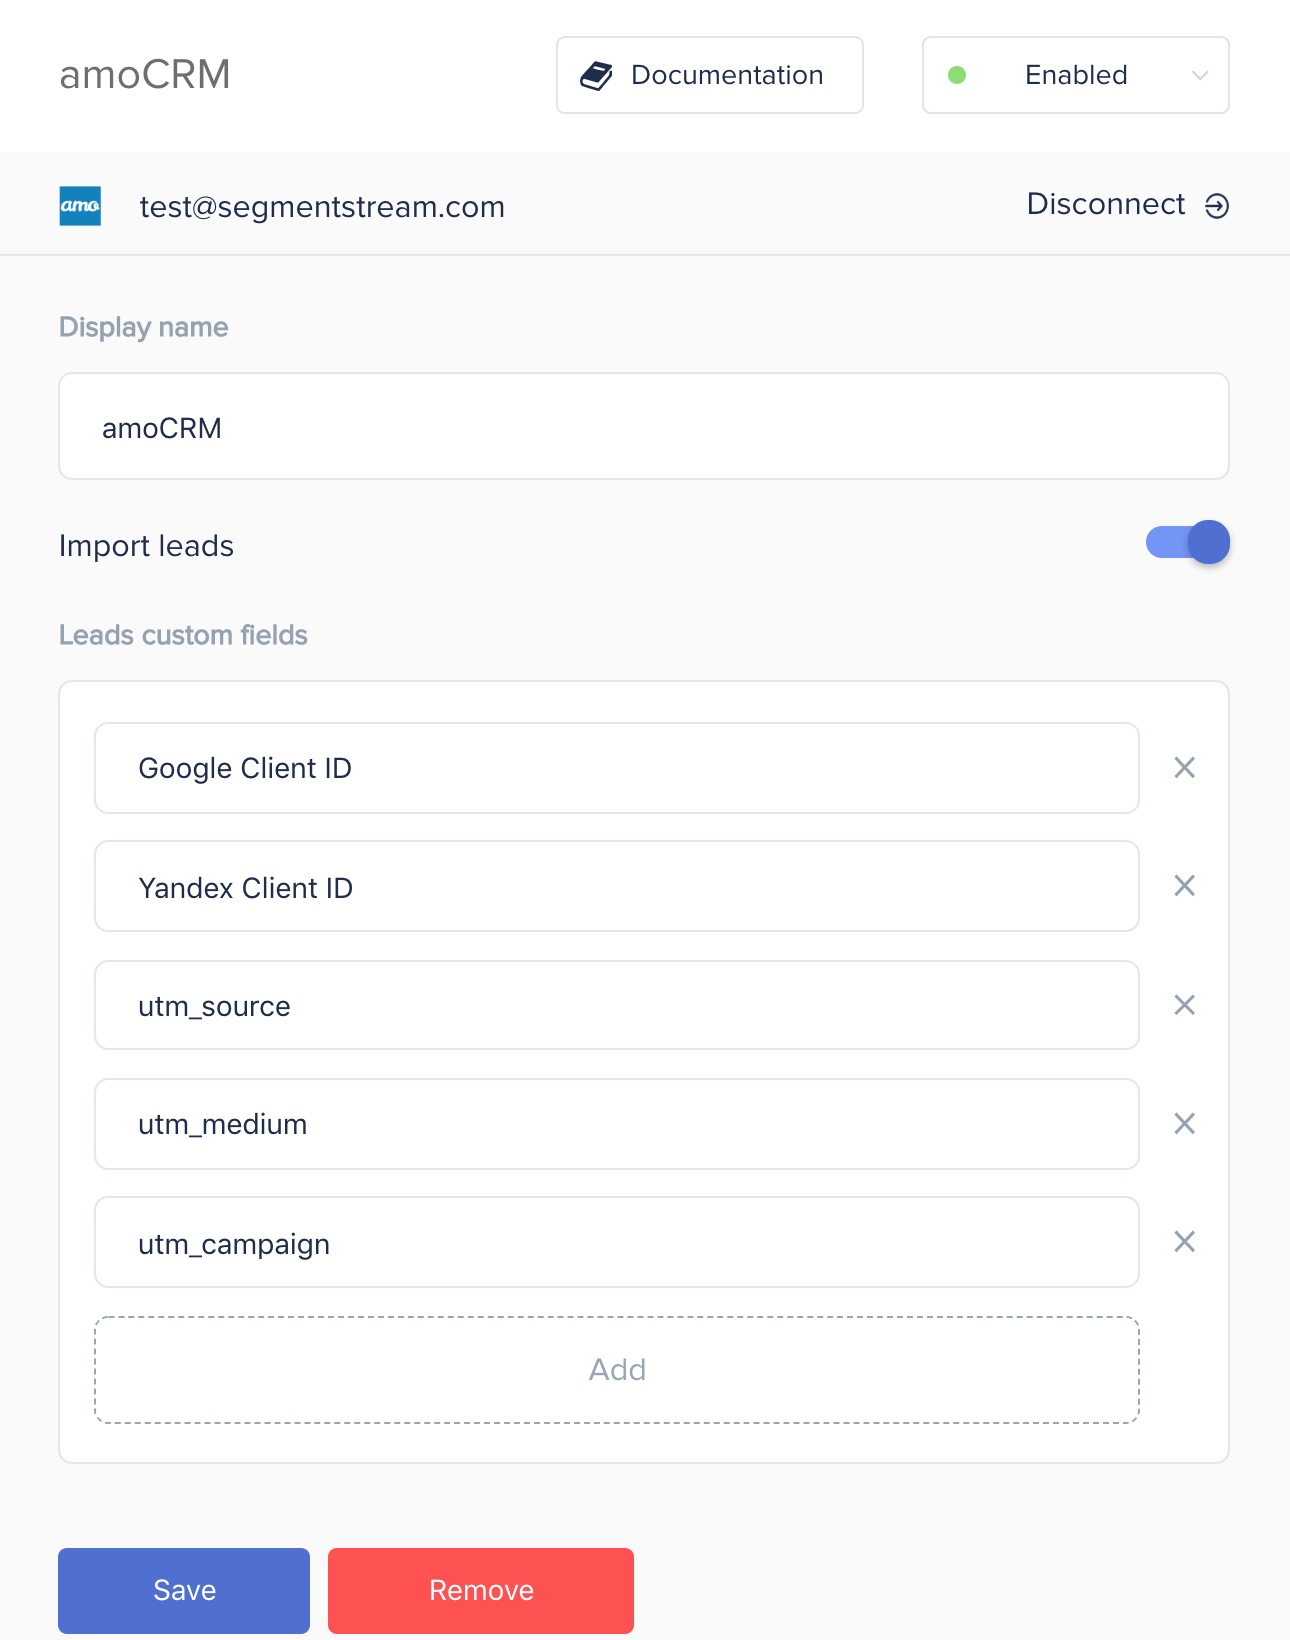
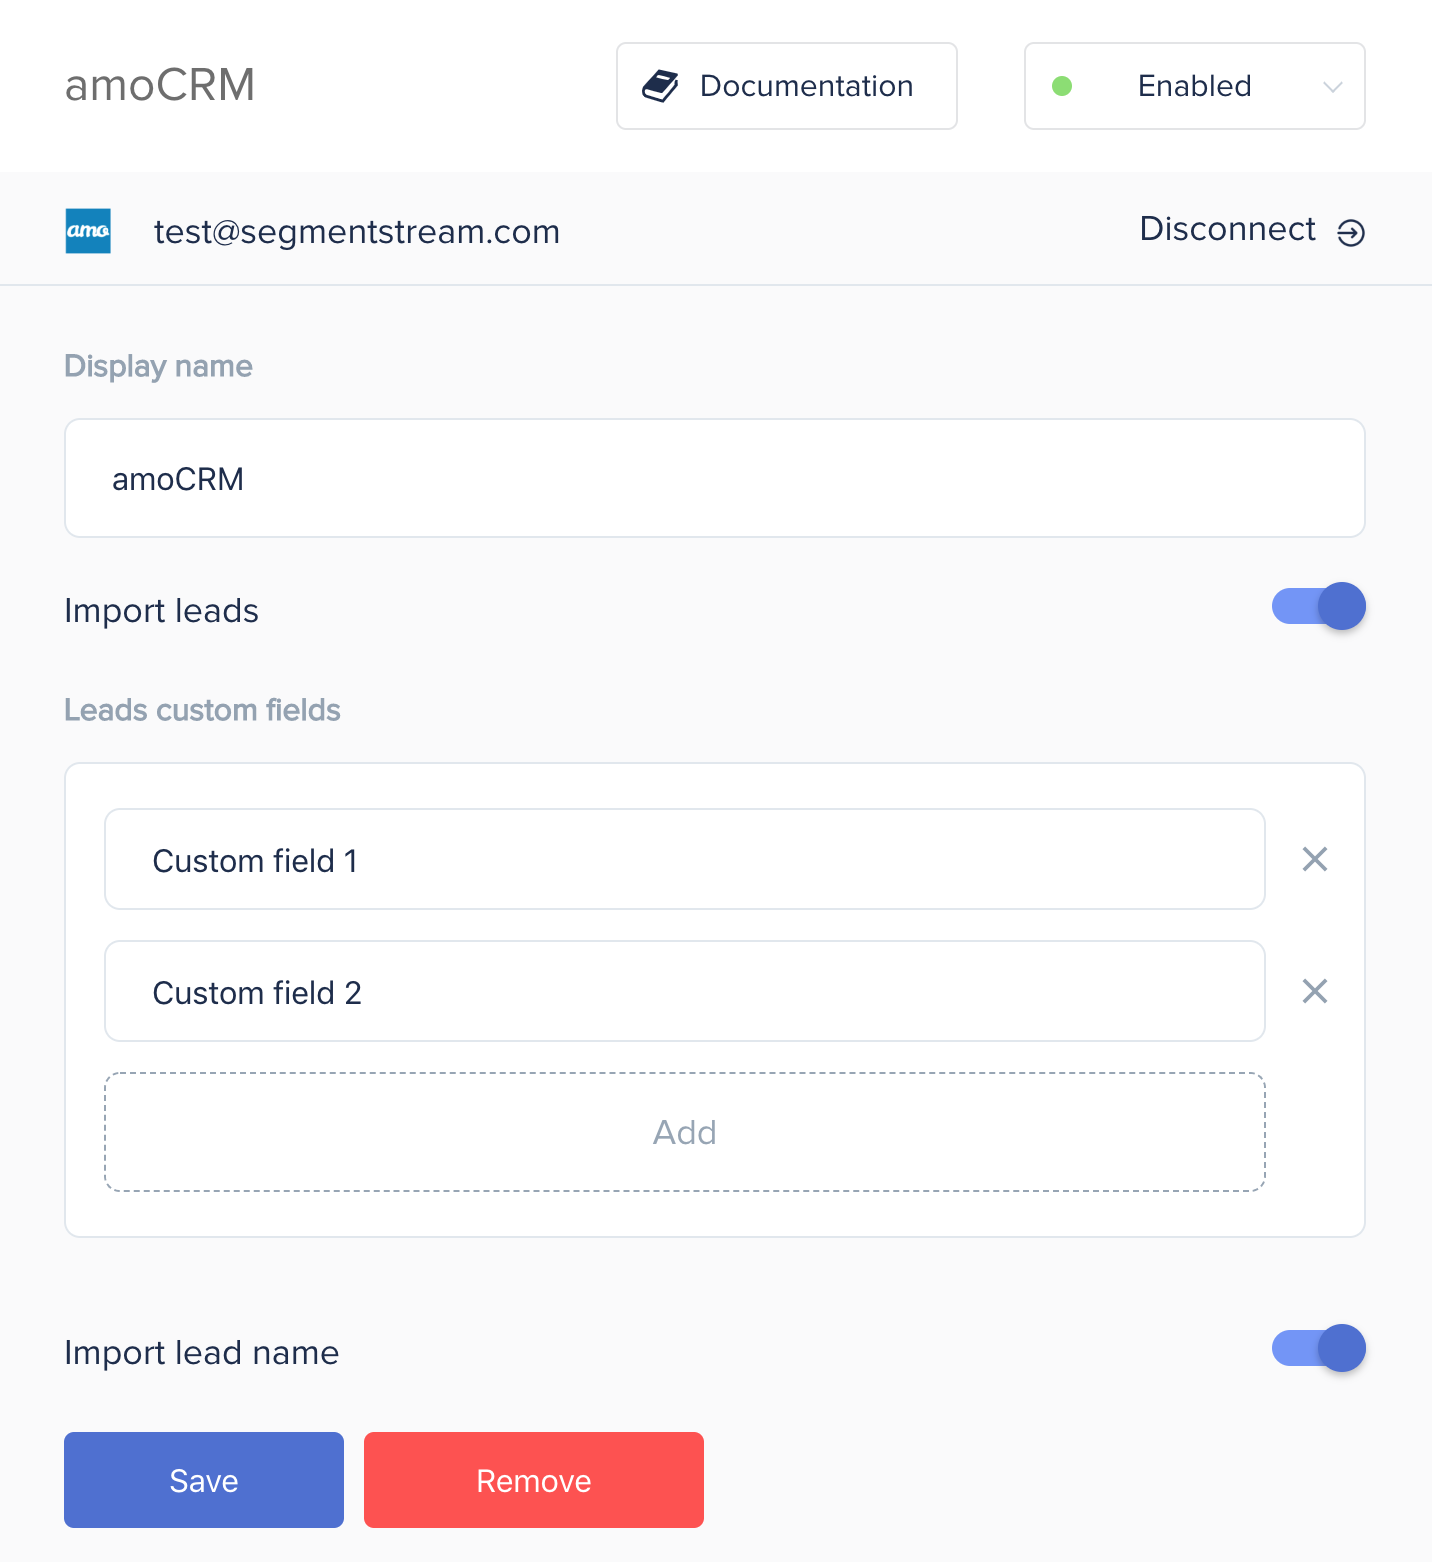
amoCRM update docs

diff --git a/_docs/datasources/amocrm.md b/_docs/datasources/amocrm.md
@@ -19,6 +19,7 @@ In this section you will learn:
   <li><a href="#display-name">Display name</a></li>
   <li><a href="#import-leads">Import leads</a></li>
   <li><a href="#leads-custom-fields">Leads custom fields</a></li>
+  <li><a href="#import-lead-name">Import lead name</a></li>
   <li><a href="#saving-disconnecting-disabling">Saving, Disconnecting, Disabling data source</a></li>
   <li><a href="#where-to-get-leads-data">Where to get leads data</a></li>
   <li><a href="#table-structures">Table structures</a></li>
@@ -49,6 +50,10 @@ Enable import of leads data. If this option enabled, updated leads for the previ
 ### <a name="leads-custom-fields"></a>Leads custom fields
 The leads amoCRM custom fields to import.
 
+### <a name="import-lead-name"></a>Import lead name
+Indicates whether or not to download leads names.
+It's necessary for cases when the leads names contain sensitive information.
+
 ### <a name="saving-disconnecting-disabling"></a>Saving, Disconnecting, Disabling data source
 To save and enable the data source, click **Save**.
 
@@ -75,6 +80,7 @@ updated_at | INTEGER | NULLABLE
 account_id | INTEGER | NULLABLE
 pipeline_id | INTEGER | NULLABLE
 status_id | INTEGER | NULLABLE
+status_name | STRING | NULLABLE
 updated_by | INTEGER | NULLABLE
 is_deleted | BOOLEAN | NULLABLE
 group_id | INTEGER | NULLABLE
